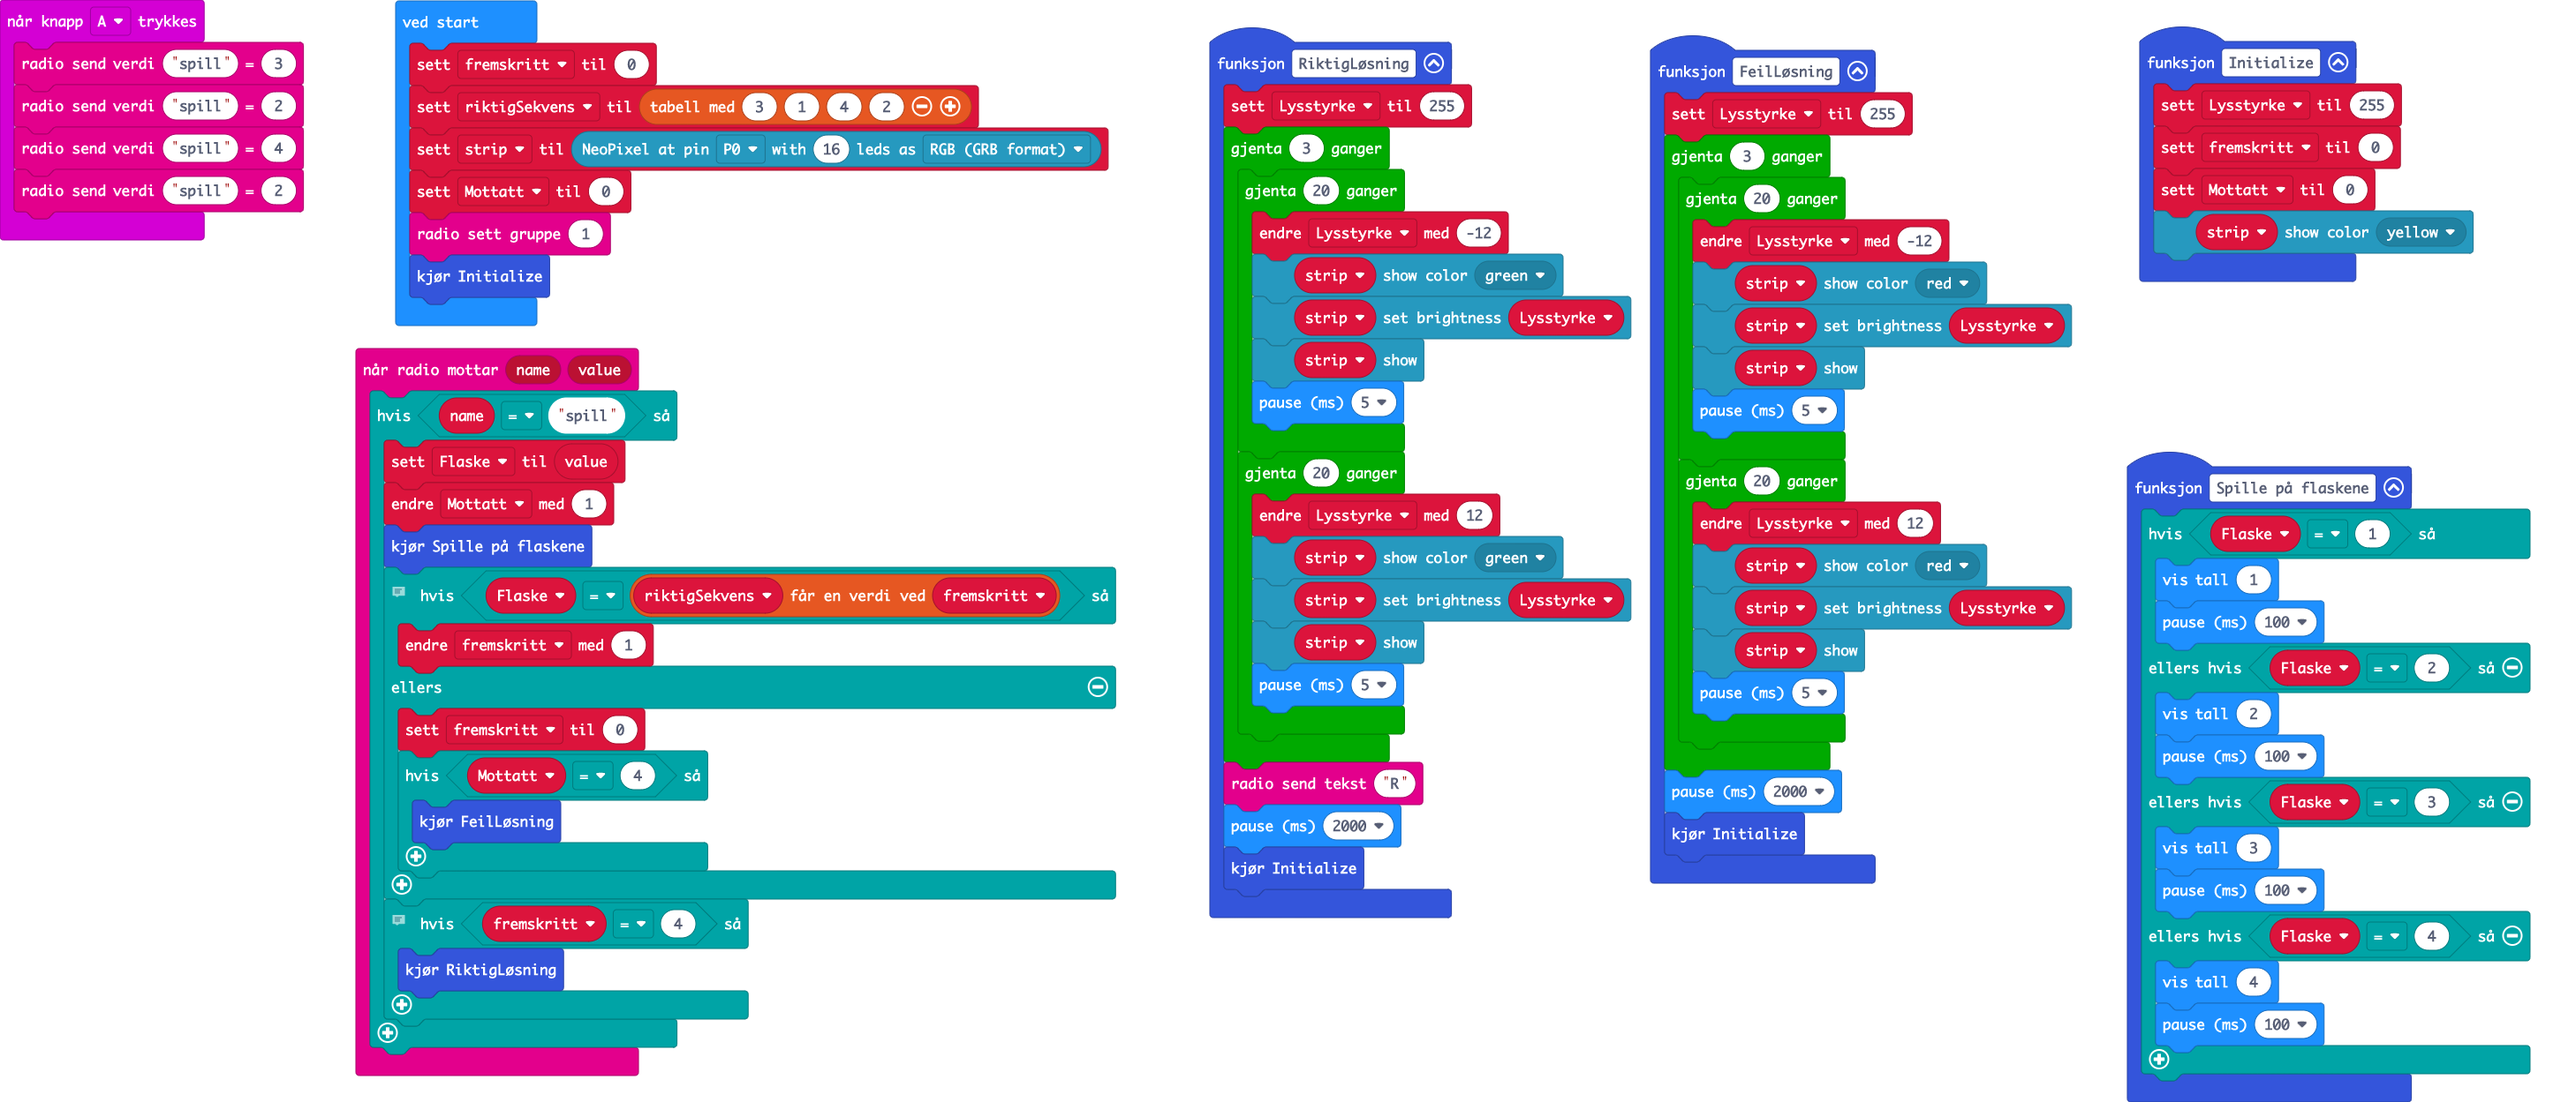
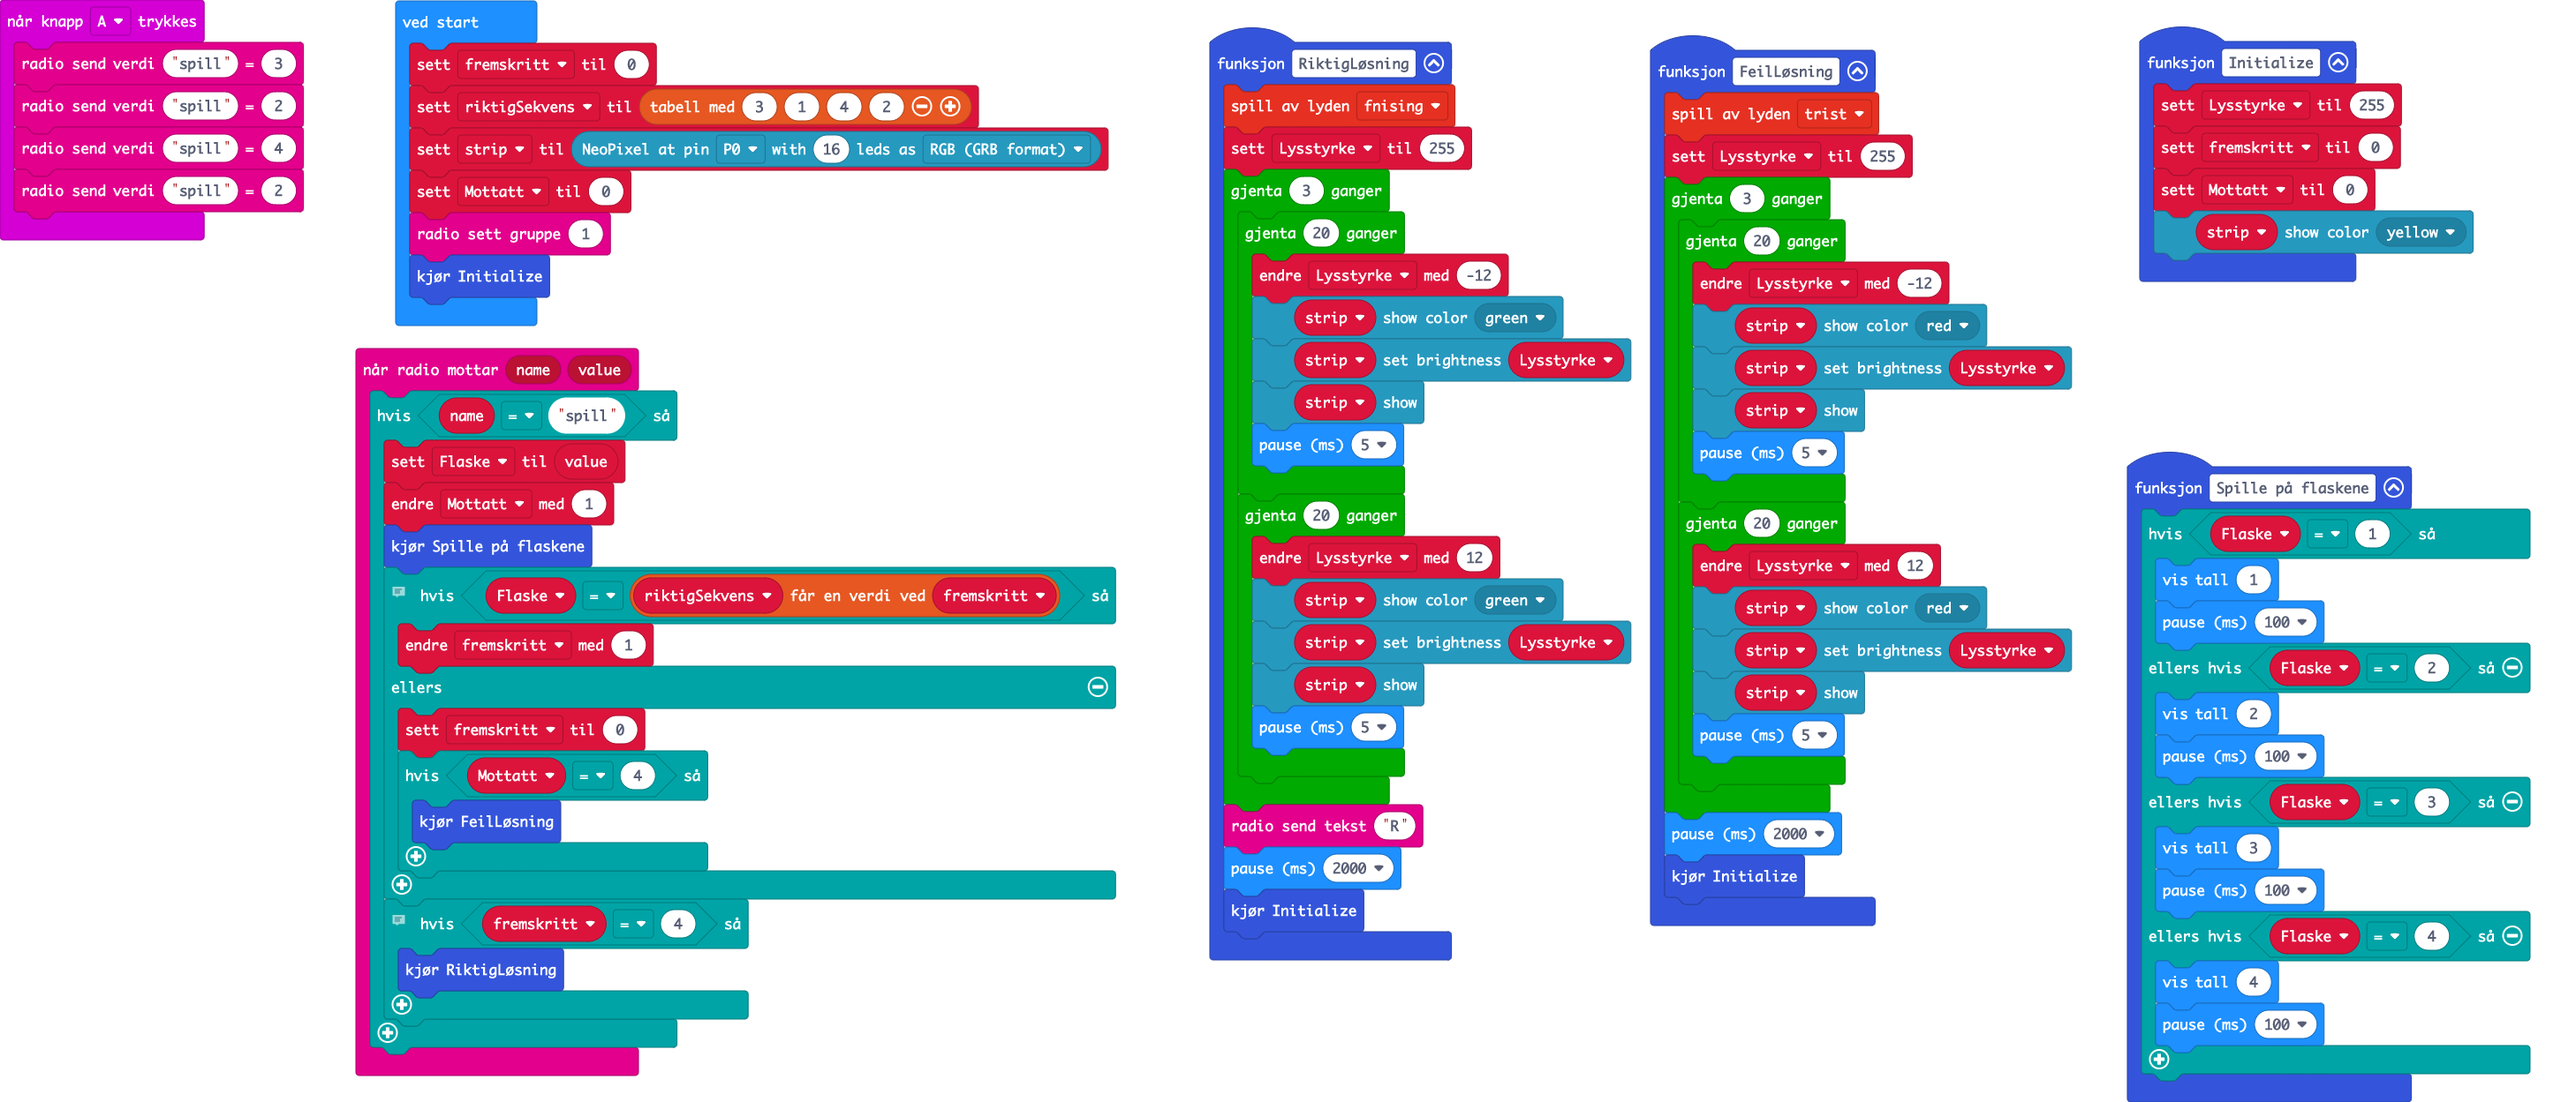
Oppdater main.blocks, main.ts

Changed region(s): [[0.4679, 0.0624, 0.8111, 0.8743]]

diff --git a/main.ts b/main.ts
@@ -1,4 +1,5 @@
 function RiktigLøsning () {
+    soundExpression.giggle.play()
     Lysstyrke = 255
     for (let index = 0; index < 3; index++) {
         for (let index = 0; index < 20; index++) {
@@ -42,6 +43,7 @@ input.onButtonPressed(Button.A, function () {
     radio.sendValue("spill", 2)
 })
 function FeilLøsning () {
+    soundExpression.sad.play()
     Lysstyrke = 255
     for (let index = 0; index < 3; index++) {
         for (let index = 0; index < 20; index++) {
